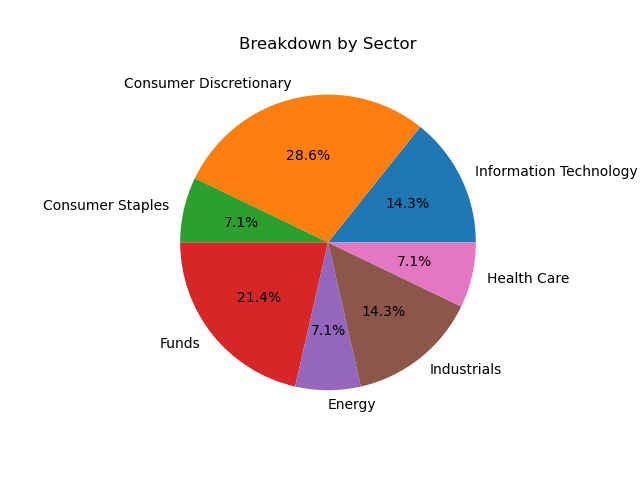
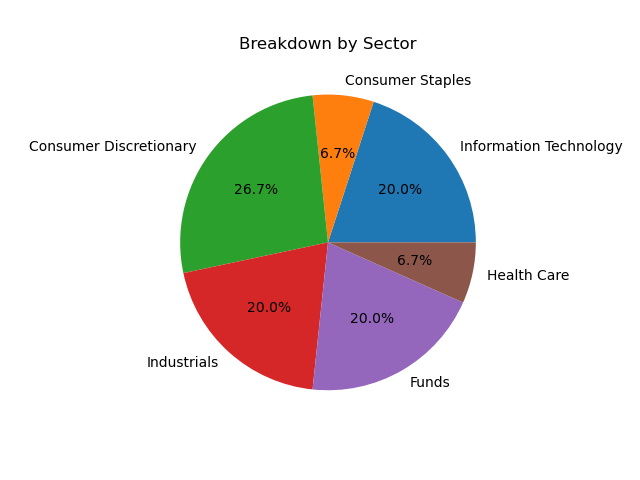
rishi changes

diff --git a/plots.py b/plots.py
@@ -15,7 +15,7 @@ adict is a dictionary of the users portfolio
 """
 # p1 = Portfolio({"ABM": 200, "TSLA": 400, "KO": 76})
 p1 = Portfolio(holdings={"ABM": 200, "TSLA": 400, "KO": 76, "GE": 58, "GM": 79,
-                    "AAPL": 200, "NCR" : 350, "NOK": 21, "QSR" : 240, "T" : 58,
+                    "AAPL": 200, "NCR" : 350, "NOK": 21, "QSR" : 240, "MMM" : 58,
                     "TAK" : 79, "SPY": 721, "DIA": 270, "FNCL": 32, "F":90})
 bigData = p1.portAnalCleaned
 #response = requests.get('https://www.blackrock.com/tools/hackathon/portfolio-analysis?calculateExpectedReturns=true&\
@@ -132,13 +132,13 @@ def holdingsData(category):
 
 
 def portfolioSpecificData(ticker):
-    price_url = f'https://www.alphavantage.co/query?function=TIME_SERIES_DAILY&symbol={ticker}&apikey={key}&outputsize=full'
+    price_url = f'https://www.alphavantage.co/query?function=TIME_SERIES_DAILY_ADJUSTED&symbol={ticker}&apikey={key}&outputsize=full'
     price_data = requests.get(price_url).json()
     price_data = price_data['Time Series (Daily)']
     price_data = sorted(price_data.items())
-    latest_close = float(price_data[-1][1]["4. close"])
-    monthly_return = latest_close - float(price_data[-23][1]["4. close"])
-    yearly_return = latest_close - float(price_data[-255][1]["4. close"])
+    latest_close = float(price_data[-1][1]["5. adjusted close"])
+    monthly_return = latest_close - float(price_data[-23][1]["5. adjusted close"])
+    yearly_return = latest_close - float(price_data[-255][1]["5. adjusted close"])
     df = pd.DataFrame({"Last Close ": [latest_close],
                        "Monthly return ": [monthly_return],
                        "Yearly return ": [yearly_return],
@@ -160,9 +160,9 @@ def assetTypes():
 
 
 if __name__ == '__main__':
-    print(tablePortfolio())
-    assetTypes()
-    industries()
-    sectors()
-    levels()
-    portfolioSpecificData("TSLA")
+    # print(tablePortfolio())
+    # assetTypes()
+    # industries()
+    # sectors()
+    # levels()
+    print(portfolioSpecificData("AAPL"))

diff --git a/br_api_tests.py b/br_api_tests.py
@@ -12,10 +12,8 @@ from initPortfolio import Portfolio
 
 # data = api['resultMap']['PORTFOLIOS'][0]['portfolios'][0]
 port = Portfolio(holdings={"ABM": 200, "TSLA": 400, "KO": 76, "GE": 58, "GM": 79,
-                    "AAPL": 200, "NCR" : 350, "NOK": 21, "QSR" : 240, "T" : 58,
-                    "TAK" : 79, "SPY": 721, "DIA": 270, "FNCL": 32, "F":90,
-                    "MMM" : 78, "HON" : 92, "UPS": 68, "UHS": 78, "V": 200, "BLL": 53,
-                    "KI": 520, "M": 63, "TAP": 46, "MNST": 79, "NOV": 10})
+                    "AAPL": 200, "NCR" : 350, "NOK": 21, "QSR" : 240, "MMM" : 58,
+                    "TAK" : 79, "SPY": 721, "DIA": 270, "FNCL": 32, "F":90})
 data = port.portAnalCleaned
 daily = data['returns']['returnsMap']
 lastDay = sorted(daily.items())
@@ -96,9 +94,9 @@ def get_levels(holdings, retNumHoldings=True):
     levels = {}
     securities = perfData['resultMap']['RETURNS']
     for security in securities:
-        try:
+        if 'ticker' in security.keys():
             levels[security['ticker']] = security['latestPerf']['level']
-        except KeyError:
+        else:
             levels[security['uniqueId']] = security['latestPerf']['level']
 
     if retNumHoldings:
@@ -200,4 +198,5 @@ def get_both():
     return [get_rank(), get_sector_rank()]
 
 if __name__ == '__main__':
-    print(get_both())
+    print(get_rank())
+    print(get_sector_rank())

diff --git a/securitySearch.py b/securitySearch.py
@@ -14,10 +14,8 @@ ticker = ""
 def initializeTicker(tick):
     # p1 = Portfolio({"KO": 200, "REV": 259, "GM": 237})
     p1 = Portfolio(holdings={"ABM": 200, "TSLA": 400, "KO": 76, "GE": 58, "GM": 79,
-                    "AAPL": 200, "NCR" : 350, "NOK": 21, "QSR" : 240, "T" : 58,
-                    "TAK" : 79, "SPY": 721, "DIA": 270, "FNCL": 32, "F":90,
-                    "MMM" : 78, "HON" : 92, "UPS": 68, "UHS": 78, "V": 200, "BLL": 53,
-                    "KI": 520, "M": 63, "TAP": 46, "MNST": 79, "NOV": 10})
+                    "AAPL": 200, "NCR" : 350, "NOK": 21, "QSR" : 240, "MMM" : 58,
+                    "TAK" : 79, "SPY": 721, "DIA": 270, "FNCL": 32, "F":90})
     data = p1.perfDataCleaned
     #performance_data = 'https://www.blackrock.com/tools/hackathon/performance?datesAsStrings=true&identifiers={}'.format(ticker)
     #api = requests.get(performance_data).json()
@@ -138,5 +136,5 @@ if __name__ == '__main__':
                     "MMM" : 78, "HON" : 92, "UPS": 68, "UHS": 78, "V": 200, "BLL": 53,
                     "KI": 520, "M": 63, "TAP": 46, "MNST": 79, "NOV": 10})
     drawTickerPlots(random.choice(list(p1.holdings.keys())))
-    drawSectorPlots('Information Technology')
+    print(drawSectorPlots('Information Technology'))
     # drawSectorPlots('Information Technology')

diff --git a/suggestions.py b/suggestions.py
@@ -147,6 +147,7 @@ def generateSuggestions(risk='medium', sectors=['any',]):
             'Telecommunication Services': ['VOX', 'NXTG', 'FCOM', 'IYZ']}
 
         etfsInSector = etfs['General']
+        print(sectors)
         for sector in sectors:
             etfsInSector += etfs[sector]
 
@@ -155,6 +156,6 @@ def generateSuggestions(risk='medium', sectors=['any',]):
     return random.sample(possibleSecurities, min(len(possibleSecurities), 3))
 
 if __name__ == '__main__':
-    # print(generateSuggestions(risk='high', sectors=['Telecommunication Services']))
-    for sector,companies in companiesPerSector().items():
-        print(f'{sector}: {companies}', end='\n\n\n')
+    print(generateSuggestions(risk='low'))
+    # for sector,companies in companiesPerSector().items():
+    #     print(f'{sector}: {companies}', end='\n\n\n')
